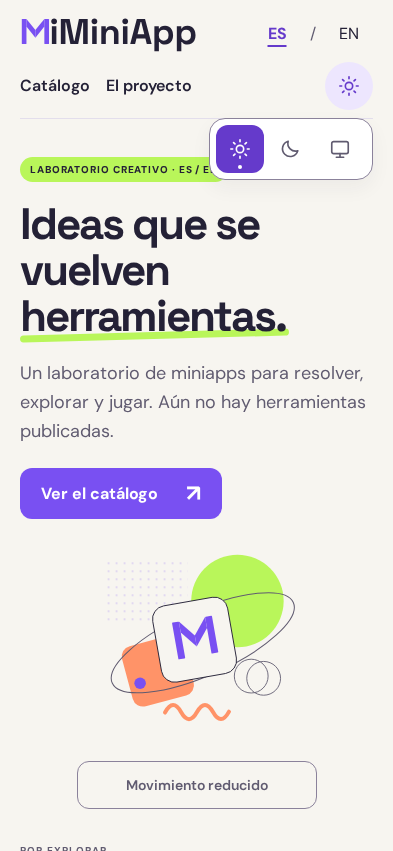
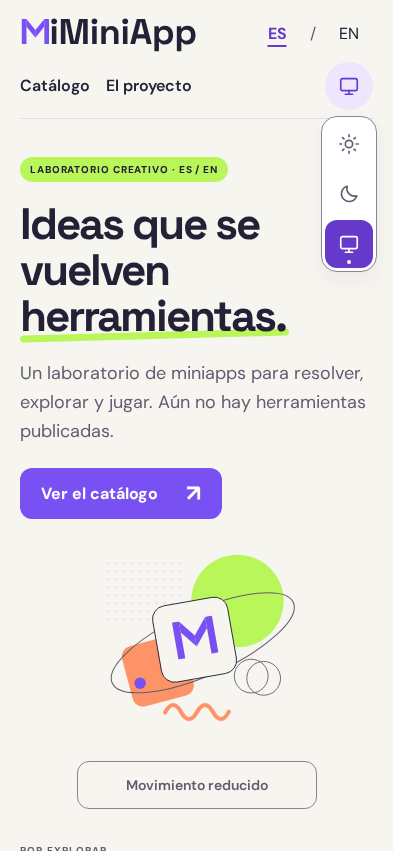
fix: make appearance popover vertical narrow and centered

diff --git a/tests/e2e/appearance.spec.ts b/tests/e2e/appearance.spec.ts
@@ -130,6 +130,28 @@ for (const locale of ['es', 'en'])
       ).toHaveCount(1);
       await page.locator('[data-appearance-trigger]').click();
       await expect(group.locator('.appearance-option:visible')).toHaveCount(3);
+      const triggerBox = await page
+        .locator('[data-appearance-trigger]')
+        .boundingBox();
+      const panelBox = await page.locator('#appearance-options').boundingBox();
+      const optionBoxes = await page
+        .locator('.appearance-option')
+        .evaluateAll((nodes) =>
+          nodes.map((node) => node.getBoundingClientRect().toJSON()),
+        );
+      expect(panelBox!.width).toBeLessThanOrEqual(56);
+      expect(
+        Math.abs(
+          panelBox!.x +
+            panelBox!.width / 2 -
+            triggerBox!.x -
+            triggerBox!.width / 2,
+        ),
+      ).toBeLessThanOrEqual(1);
+      expect(optionBoxes[1].y).toBeGreaterThan(optionBoxes[0].y);
+      expect(optionBoxes[2].y).toBeGreaterThan(optionBoxes[1].y);
+      expect(optionBoxes.every((box) => box.x === optionBoxes[0].x)).toBe(true);
+
       await page.keyboard.press('Escape');
       await expect(page.locator('[data-appearance-trigger]')).toBeFocused();
       await expect(group.locator('select')).toHaveCount(0);

diff --git a/src/styles/appearance.css b/src/styles/appearance.css
@@ -99,12 +99,12 @@
     position: fixed;
     inset: auto;
     position-anchor: --appearance-trigger;
-    top: calc(anchor(bottom) + 0.5rem);
-    left: calc(anchor(right) - 10.25rem);
+    top: calc(anchor(bottom) + 0.375rem);
+    left: calc(anchor(center) - 1.75rem);
     margin: 0;
-    width: 10.25rem;
+    width: 3.5rem;
     box-sizing: border-box;
-    padding: 0.375rem;
+    padding: 0.1875rem;
     border: 1px solid var(--color-control-border);
     border-radius: 1rem;
     background: var(--color-surface);
@@ -113,6 +113,8 @@
   }
   .appearance-options:popover-open {
     display: flex;
+    flex-direction: column;
+    align-items: center;
     gap: 0.125rem;
   }
   .appearance-option {

diff --git a/docs/review/cp02/review.html b/docs/review/cp02/review.html
@@ -100,9 +100,9 @@
       /></a>
     </figure>
   </section>
-  <h2>Bucles, tema, giro y pausa</h2>
+  <h2>Bucles, tema, giro y pausa — revisión anterior horizontal</h2>
   <video controls src="hero-theme-and-pause.webm"></video>
-  <h2>Selector compacto desplegado</h2>
+  <h2>Selector vertical centrado — versión actual</h2>
   <section>
     <img
       src="popover-desktop-dark.png"

diff --git a/docs/cp02-execution-report.md b/docs/cp02-execution-report.md
@@ -63,3 +63,7 @@ El propietario solicita sustituir el grupo grande por un solo icono desplegable.
 La primera compilación separó el módulo por superar el umbral de inline; las pruebas de cero scripts externos lo detectaron. Se sustituyó posicionamiento/expansión imperativos por `popover` y CSS anchors nativos, manteniendo el módulo inline sin relajar su comprobación. Se corrigió además el capturador para poder recalcular hashes cuando ya existen subdirectorios de filmstrip.
 
 El PR #7 ya estaba fusionado por el propietario al preparar la entrega de este ajuste (merge `0f1fd385b6ccbbf7d9ec3410cbf972ccc88e47f1`). La corrección se entrega en **feature/cp02-selector-compacto**, creada desde ese staging vigente, commit `078106f`; se abrirá un nuevo PR en borrador. La base fusionada tiene el mismo árbol de código que la base probada y el cherry-pick conserva exactamente el árbol de implementación verificado. No se fusiona ni publica esta corrección.
+
+Ajuste solicitado y autorizado por el propietario el 2026-11-09: desplegable **vertical de 56 px de ancho**, centrado bajo el icono activo y separado 6 px. Opciones en una columna, manteniendo dianas de 48×48 px, teclado y semántica nativa. Rama `feature/cp02-selector-vertical` desde staging `87887d71803b2513fe2bd33fc0f74c24889e023e` (PR #8 ya fusionado por el propietario). Solo cambia la presentación del popover; preferencias, tarjeta del hero y movimiento mantienen sus contratos.
+
+Verificación de este ajuste: lint, formato y build satisfactorios; 8 E2E dirigidos (ES/EN × claro/oscuro × escritorio/móvil) pasan, con nuevas aserciones de ancho máximo de 56 px, centrado con tolerancia de 1 px y opciones en columna. Se conservan dianas de 48 px y cobertura de apertura/cierre, Escape, teclado, reflujo y axe. Las cuatro capturas del popover están actualizadas; el vídeo existente documenta la revisión horizontal anterior, con el mismo movimiento del hero. No se repiten unitarias de lógica de preferencias porque no ha cambiado JavaScript.

diff --git a/docs/exec-plans/active/CP-02-apariencia.md b/docs/exec-plans/active/CP-02-apariencia.md
@@ -111,3 +111,5 @@ Implementación terminada en feature/cp02-apariencia; `npm run verify` final exi
 Actualización aprobada por el propietario, 2026-11-09: sustituir los tres iconos siempre visibles por **un solo icono activo** en un botón de 48×48 px sin marco. Al pulsarlo, popover nativo compacto con las tres opciones por iconos; selección cierra y devuelve foco, Escape/clic exterior cierran. El botón comunica nombre del modo y expansión en ES/EN. Giro de 240 ms en el icono del botón tras elegir, salvo reduced-motion. Se elimina la fila móvil extra que requería el grupo grande. El resto del contrato de CP-02 permanece vigente. Cambio solicitado y autorizado expresamente dentro de CP-02/PR #7.
 
 Entrega del ajuste: PR #7 fusionado previamente por el propietario; rama **feature/cp02-selector-compacto** desde staging `0f1fd385b6ccbbf7d9ec3410cbf972ccc88e47f1`. Corrección `078106f`, pruebas completas satisfactorias; nuevo PR en borrador, sin merge ni publicación del agente.
+
+Ajuste solicitado y autorizado por el propietario el 2026-11-09: desplegable **vertical de 56 px de ancho**, centrado bajo el icono activo y separado 6 px. Opciones en una columna, manteniendo dianas de 48×48 px, teclado y semántica nativa. Rama `feature/cp02-selector-vertical` desde staging `87887d71803b2513fe2bd33fc0f74c24889e023e` (PR #8 ya fusionado por el propietario). Solo cambia la presentación del popover; preferencias, tarjeta del hero y movimiento mantienen sus contratos.

diff --git a/docs/design-docs/index.md b/docs/design-docs/index.md
@@ -169,3 +169,6 @@ El 2026-11-08 el propietario acepta expresamente el resultado de Iteración 2, i
 
 
 Actualización aprobada por el propietario, 2026-11-09: sustituir los tres iconos siempre visibles por **un solo icono activo** en un botón de 48×48 px sin marco. Al pulsarlo, popover nativo compacto con las tres opciones por iconos; selección cierra y devuelve foco, Escape/clic exterior cierran. El botón comunica nombre del modo y expansión en ES/EN. Giro de 240 ms en el icono del botón tras elegir, salvo reduced-motion. Se elimina la fila móvil extra que requería el grupo grande. El resto del contrato de CP-02 permanece vigente. Cambio solicitado y autorizado expresamente dentro de CP-02/PR #7.
+
+
+Ajuste solicitado y autorizado por el propietario el 2026-11-09: desplegable **vertical de 56 px de ancho**, centrado bajo el icono activo y separado 6 px. Opciones en una columna, manteniendo dianas de 48×48 px, teclado y semántica nativa. Rama `feature/cp02-selector-vertical` desde staging `87887d71803b2513fe2bd33fc0f74c24889e023e` (PR #8 ya fusionado por el propietario). Solo cambia la presentación del popover; preferencias, tarjeta del hero y movimiento mantienen sus contratos.
